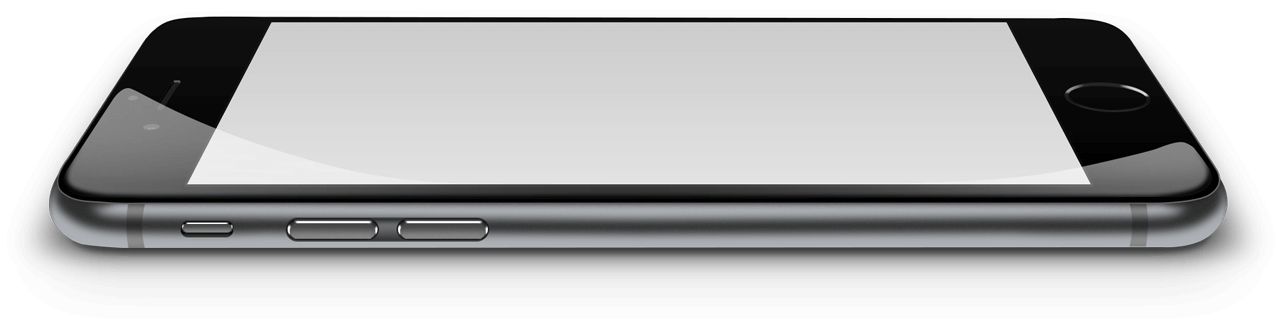
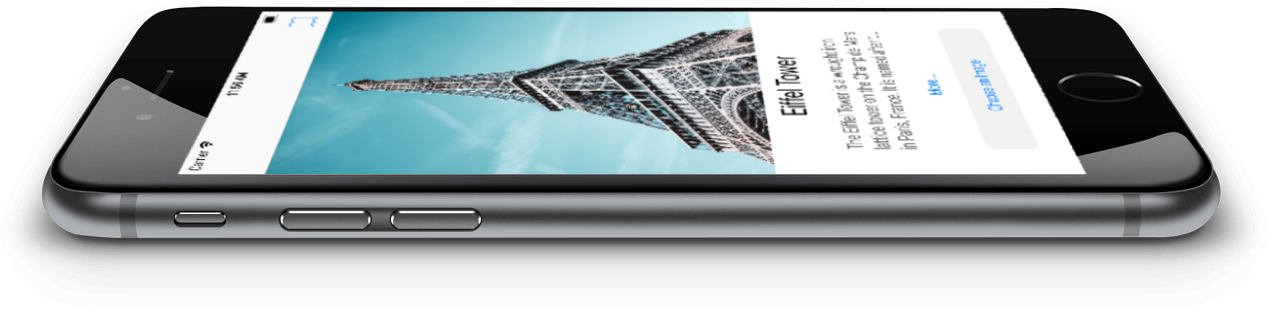
Text edited

diff --git a/index.html b/index.html
@@ -8,11 +8,11 @@
 <head>
     
     <!-- Your Basic Site Informations -->
-	<title>Minima Simple App Showcase Landing Page</title>
+	<title>Landmark ID</title>
     <meta charset="UTF-8">
     <meta http-equiv="X-UA-Compatible" content="IE=edge">
-    <meta name="description" content="Minima is a simple and clean design landing page that built-in professional responsive template, elegant style, smooth-animation and have a slew of features.">
-    <meta name="keywords" content="Landing Page, One Page Template, Simple Design, Clean Design, Responsive Template, Smooth Animation, App Showcase, PSD, HTML5, CSS3, jQuery">
+    <meta name="description" content="Landmark ID is a travel and educational tool that uses photo recognition technology to detect landmarks within an image.">
+    <meta name="keywords" content="Landmark ID, mobile Application, Landmark, Photo Recognition, Travel, Education, Photography">
     <meta name="author" content="Affapress">
     
     <!-- Mobile Specific Meta -->
@@ -75,7 +75,6 @@
                         <span class="icon-bar"></span>
                     </button>
                     <div class="navbar-brand">
-                        <a href="index.html"><img src="images/logo.png" alt="Logo"></a> <!-- site logo -->
                     </div>
                 </div>
                 
@@ -84,10 +83,8 @@
                     <ul class="nav navbar-nav navbar-right">
                     	<li class="active"><a href="#header" class="smooth-scroll">Home</a></li>
                         <li><a href="#features" class="smooth-scroll">Features</a></li>
-                        <li><a href="#counter" class="smooth-scroll">Counter</a></li>
-                        <li><a href="#testimonials" class="smooth-scroll">Reviews</a></li>
                         <li><a href="#screenshots" class="smooth-scroll">Screenshots</a></li>
-                        <li><a href="page.html">Page</a></li>
+                        <li><a href="support">Page</a></li>
                     </ul>
                 </div>
                 
@@ -166,7 +163,7 @@
                         	<i class="ion ion-lock-combination"></i>
                             <h4>Automatic Saving</h4>
                         </div>
-                        <p>All your tagged landmarks will save automatically and appear in one place</p>
+                        <p>All your tagged landmarks will save automatically and appear in one place.</p>
                     </div>
                 </div>
                 
@@ -206,23 +203,17 @@
                 
                 <div class="col-sm-6 col-lg-5 col-sm-offset-0 col-md-offset-1">
                 	<div class="padding-top120 padding-top100-sm padding-top0-xs text-center-xs">
-                    	<p class="text-lg margin-bottom40">Landmark ID is a travel and educational tool that uses photo recognition technology to detect landmarks within an image. Use Landmark ID to explore the wonders around you and let it keep a note of all your discoveries.</p>
+                    	<p class="text-lg margin-bottom40">Landmark ID is a travel and educational tool that uses photo recognition technology to detect landmarks within an image.</p>
+			</div>
+			<p class="text-lg margin-bottom40">Use Landmark ID to explore the wonders around you and let it keep a note of all your discoveries.</p>
                         
                         <div class="row">
                         	<div class="col-sm-6"> <!-- 1 -->
                             	<div class="affa-counter">
-                                	<h4><span>Free</span></h4>
-                                    <p><i class="ion ion-ios-world"></i>Download</p>
-                                </div>
-                            </div>
-                            
-                            <div class="col-sm-6"> <!-- 2 -->
-                            	<div class="affa-counter">
                                 	<h4><span>10,000</span>+</h4>
-                                    <p><i class="ion ion-happy-outline"></i>Landmark Database</p>
+                                    <p><i class="ion ion-ios-world"></i>Landmark Database</p>
                                 </div>
                             </div>
-                        </div>
   
                     </div>
                 </div>
@@ -352,7 +343,7 @@
             
             <div class="post-heading-center margin-bottom80">
             	<p>Screenshots</p>
-                <h2>Look app in action</h2>
+                <h2>Look at app in action</h2>
             </div>
             
 		</div>
@@ -422,6 +413,38 @@
         
     </div>
     <!-- #download end -->
+
+    <!-- #subscribe -->
+    <div id="subscribe" class="container-padding140">
+        
+        <!-- .container -->
+        <div class="container">
+            
+            <!-- .affa-form-wrap -->
+            <div class="affa-form-wrap">
+            	
+                <div class="pull-left">
+                	<div class="pull-left post-heading-left padding-top10-lg padding-top10-md">
+                        <h2>Stay updated on the release</h2>
+                        <h5>Be the first to know when we start!</h5>
+                    </div>
+                </div>
+                
+                <div class="pull-right">
+                    <form method="post" action="#" class="pull-right affa-form-subscribe">
+                        <input type="text" name="email" placeholder="Email address">
+                        <input type="submit" name="submit" value="Subscribe Now">
+                    </form>
+                </div>
+                
+            </div>
+            <!-- .affa-form-wrap end -->
+            
+		</div>
+        <!-- .container end -->
+        
+    </div>
+    <!-- #subscribe end -->
     
     <!-- #footer -->
     <footer id="footer">
